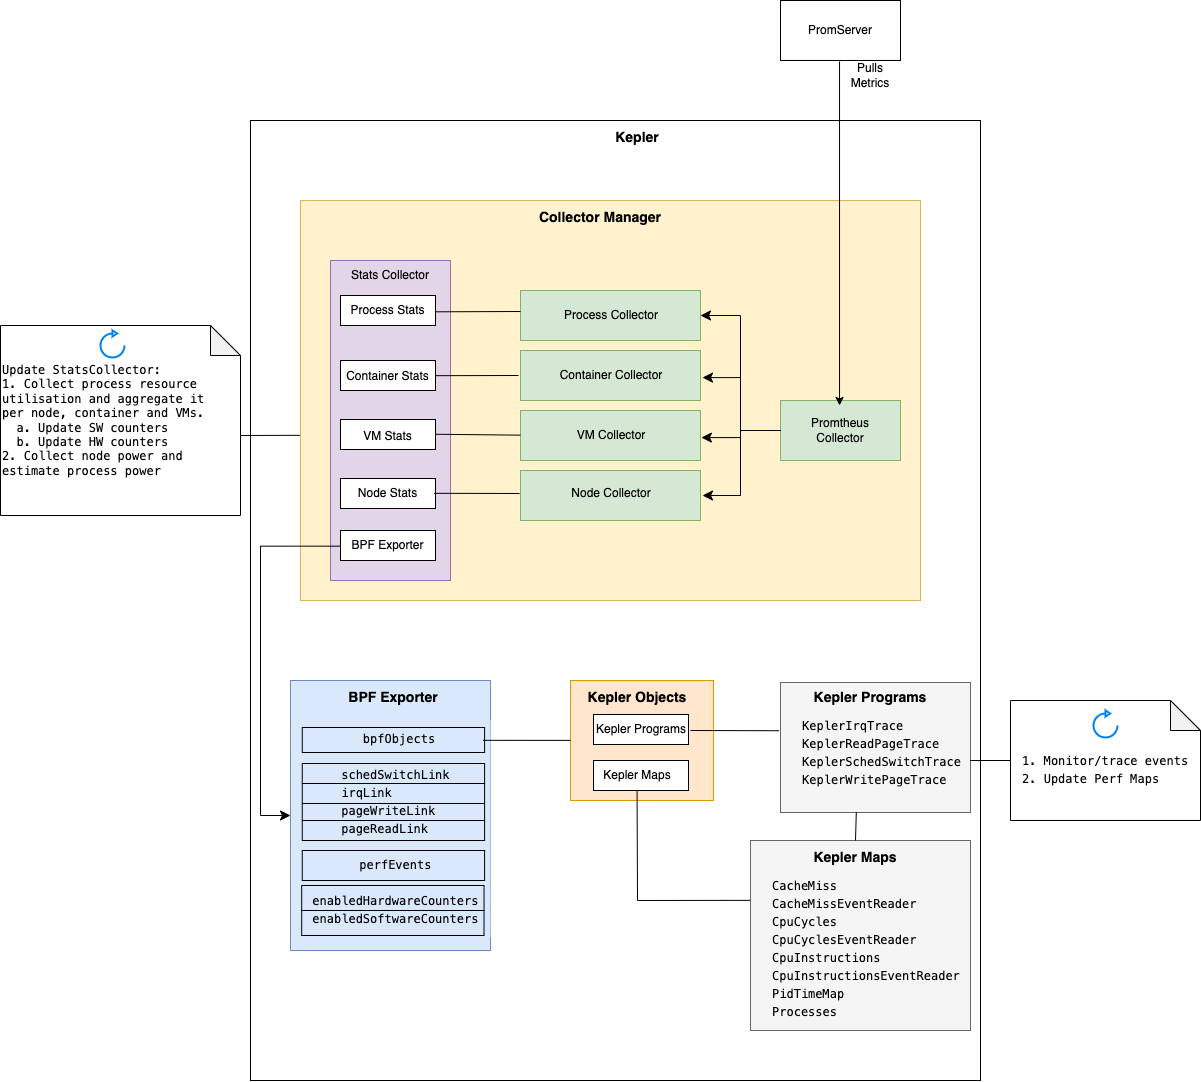
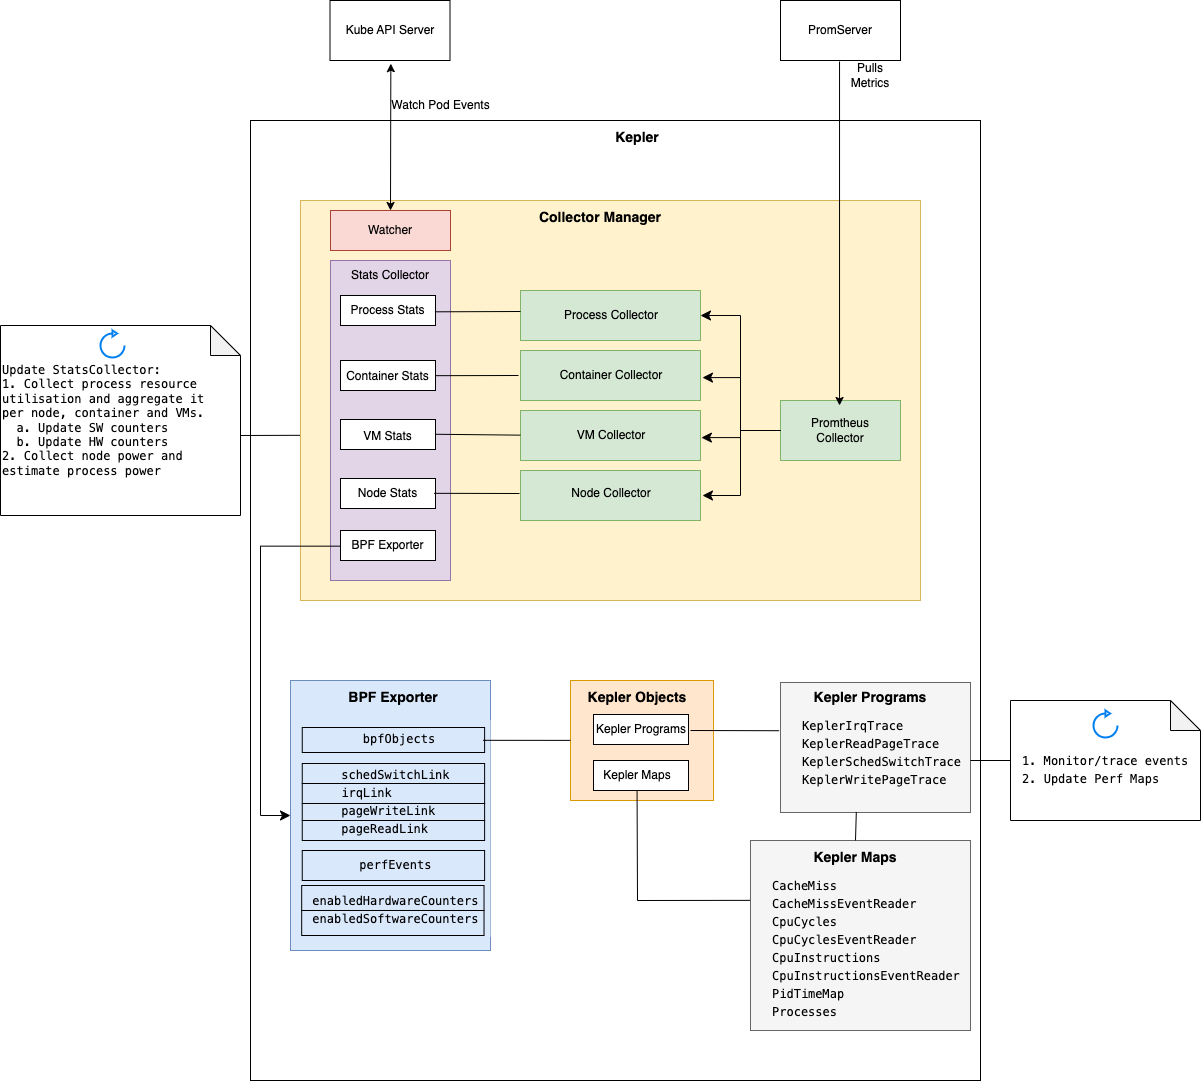
kepler: add watcher details

Changed region(s): [[0.2773, 0.183, 0.4005, 0.244], [0.3081, 0.0915, 0.4005, 0.122], [0.2773, 0.0, 0.3697, 0.0305]]

diff --git a/kepler/markdown/kepler.md b/kepler/markdown/kepler.md
@@ -108,7 +108,7 @@ ID of 1 and a PID of 1). If GPU statistics are available per process,
 the stats are extended to include GPU compute and memory utilization.
 
 Node energy stats are also retrieved (if collection is supported). These stats
-include the underlying component stats (core, uncore, dram, package),
+include the underlying component stats (core, uncore, dram, package, gpus, ...),
 as well as the overall platform stats (Idle + Dynamic energy), and the
 the process energy consumption. the process energy consumption is estimated
 using its resource utilization and the node components energy consumption.
